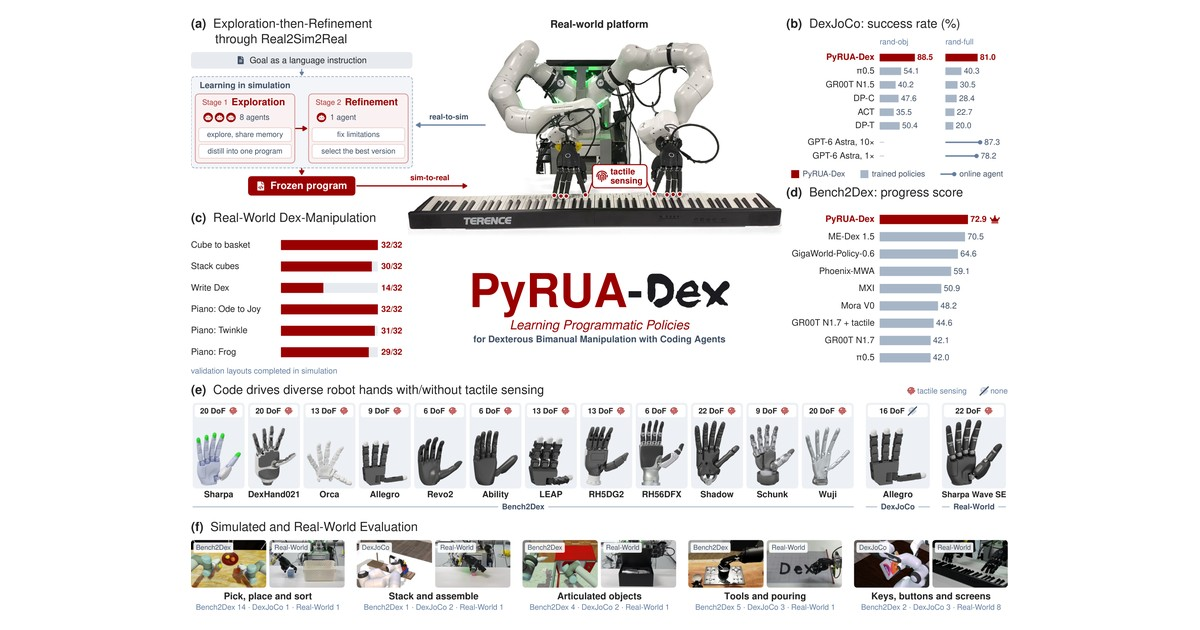
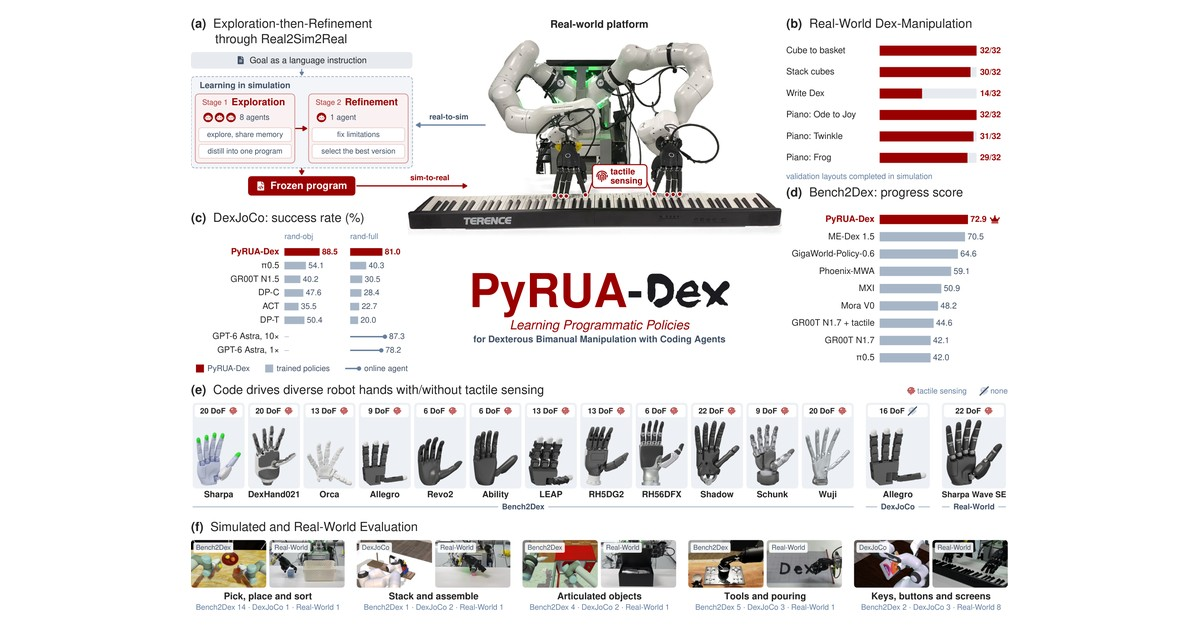
PyRUA-Dex page: follow the paper's revision of 2026-11-25
- the objective is the success rate under a development budget (the paper's equation no longer
  carries the no-language-model constraint, which the program's definition already states)
- Shared memory: its three parts (event log, curated notes, code folder), as the paper now describes it
- a card on tactile feedback in the program and in its development (the paper's new paragraph)
- Figure 4's caption says what refinement improves and through what, panel by panel
- social preview from the paper's Figure 1, whose two charts traded places: (b) real world, (c) DexJoCo

Changed region(s): [[0.6475, 0.0302, 0.8325, 0.3016], [0.1542, 0.3317, 0.3392, 0.6032]]

diff --git a/PyRUA-Dex/index.html b/PyRUA-Dex/index.html
@@ -253,7 +253,7 @@
         <ul class="steps">
           <li><svg class="ic"><use href="#i-users"/></svg><span><b>Eight agents in parallel.</b> Each receives the task library, a training layout of its own and one of the stages not yet solved.</span></li>
           <li><svg class="ic"><use href="#i-restore"/></svg><span><b>Exploration with state resets.</b> An agent checkpoints the simulator's state during an episode and resets to a checkpoint, eight times per layout: it retries one stage many times without repeating the stages before it, and queries the stage count after each attempt.</span></li>
-          <li><svg class="ic"><use href="#i-notes"/></svg><span><b>Shared memory.</b> Every attempt an agent finishes is written to a memory shared by all agents of the task, with the stages it reached and the code that reached them; a dedicated agent curates the memory.</span></li>
+          <li><svg class="ic"><use href="#i-notes"/></svg><span><b>Shared memory.</b> One memory per task in three parts: an event log written automatically, notes kept by a dedicated curating agent (for each stage: the method that reached it, what failed and what is still untried) and a code folder with each function that reached a stage. Every agent receives what is new in its next tool reply.</span></li>
           <li><svg class="ic"><use href="#i-snow"/></svg><span><b>Program evaluation.</b> Each agent writes a program that reproduces what it achieved; it is evaluated without the agent on eight fresh training layouts.</span></li>
           <li><svg class="ic"><use href="#i-book"/></svg><span><b>Distillation.</b> A distilling agent writes the task library from the evaluation records and selects the task's program.</span></li>
         </ul>
@@ -274,7 +274,7 @@
     </div>
 
     <h3 class="h3 rv"><svg class="ic"><use href="#i-chain"/></svg>A task is a chain of stages</h3>
-    <p class="h3-lead rv">Learning a task is a search over programs <i>π</i>: maximize the success rate SR(<i>π</i>) on the benchmark's test layouts, subject to no language-model call at test time and a budget of simulated layouts for development.</p>
+    <p class="h3-lead rv">Learning a task is a search over programs <i>π</i>: maximize the success rate SR(<i>π</i>) on the benchmark's test layouts, subject to a budget of simulated layouts for development.</p>
     <div class="chain-grid">
       <div class="card rv">
         <span class="k-label">Success factorizes along the chain</span>
@@ -377,6 +377,7 @@
       <div class="cb rv"><div class="badge"><svg class="ic"><use href="#i-route"/></svg></div><h4>Arms: plan whole, then move</h4><p>Arm calls put a frame of the hand at a point, with an approach direction and via points, and solve every pose before anything moves; a call says why a motion cannot run: unreachable, below the measured table, or in need of an arm reconfiguration. All motions run at the joints' speed limits.</p><div class="chips"><span class="chip">move_to</span><span class="chip">arc</span><span class="chip">together</span></div></div>
       <div class="cb rv"><div class="badge"><svg class="ic"><use href="#i-eye"/></svg></div><h4>Perception</h4><p>SAM 3 masks for a ladder of prompts, combined across the calibrated fixed cameras into position, footprint, height and yaw; wrist cameras measure again from close by.</p><div class="chips"><span class="chip">segment</span><span class="chip">locate</span><span class="chip">relocate</span><span class="chip">look</span><span class="chip">probe</span></div></div>
       <div class="cb rv"><div class="badge"><svg class="ic"><use href="#i-pulse"/></svg></div><h4>Touch</h4><p>A program does not assume that a grasp held; it checks. Touch comes from the fingertip maps and from joint lag, the gap between a joint's command and its measured position, read against each robot's measured drive response. Every call returns an outcome with its reason, data and steps, so a program checks each step and retries, adjusts or moves on.</p><div class="chips"><span class="chip">holding</span><span class="chip">feel</span><span class="chip">Outcome(ok, reason, data, steps)</span></div></div>
+      <div class="cb cb-wide rv"><div class="badge"><svg class="ic"><use href="#i-pulse"/></svg></div><div><h4>Tactile feedback, in the program and in its development</h4><p>Touch tells a program what vision cannot: whether a finger has met an object and whether a grasp holds. In the program, contact ends motions and verifies their result: a closing finger stops where it meets the object, a hand approaches a surface until it is felt, and after a grasp or a lift the program asks whether the object is held, has slipped or was never grasped. During exploration, an agent reads after any motion what each fingertip pad feels, so it learns why an attempt failed; during refinement, the outcomes that stage functions return on failed layouts show whether to repair the approach, the grasp or the transport.</p></div><div class="chips"><span class="chip">touch</span><span class="chip">close</span></div></div>
       <div class="cb cb-wide rv"><div class="badge"><svg class="ic"><use href="#i-film"/></svg></div><div><h4>From an episode to a program</h4><p>When an explored layout that reached a stage is closed, the harness compiles the path the agent kept into a recipe, the palm's waypoints relative to the located objects split at every grasp and release, and a draft program in the staged form. The agent turns the draft into a program by closing the loop: measuring again before contact, checking that a hand holds, and stating how each stage function fails.</p></div><div class="chips"><span class="chip">play</span><span class="chip">take</span></div></div>
     </div>
   </div>
@@ -629,8 +630,8 @@
       <div class="nbox rv"><b class="nw sm">43.6% → 61.7%</b><span>validation layouts completed, against test success <span class="nw">44.6% → 60.6%</span>: the gain carries over to layouts no agent has seen</span></div>
     </div>
     <figure class="fig rv">
-      <a class="zoom" href="static/images/paper/fig-stage2.webp?v=20261125"><img src="static/images/paper/fig-stage2.webp?v=20261125" alt="Why refinement works: how the programs after exploration failed, held-out completions of the versions evaluated during refinement, and task 12 stage by stage" width="1959" height="645" loading="lazy"></a>
-      <figcaption><b>Why refinement works.</b> (a) How the 341 failed validation runs of the programs after exploration ended, on the 22 tasks that exploration completed at least once (a run can count in two classes). (b) Held-out completions (of 32) of the versions evaluated during refinement; version 0 is the program after exploration, and the large dot is the version that was selected. (c) Task 12: held-out layouts that reached each stage, after exploration and after refinement.</figcaption>
+      <a class="zoom" href="static/images/paper/fig-stage2.webp?v=20261125"><img src="static/images/paper/fig-stage2.webp?v=20261125" alt="Refinement improves the success rate by repairing the stage at which an explored program fails: how the programs after exploration failed, held-out completions of the versions evaluated during refinement, and task 12 stage by stage" width="1959" height="645" loading="lazy"></a>
+      <figcaption><b>Refinement improves the success rate by repairing the stage at which an explored program fails.</b> (a) Explored programs fail in a way that can be repaired: most failed validation runs return with step budget unused, most stop at a single stage, and few run out of steps (341 runs on the 22 tasks that exploration completed at least once; a run can count in two classes). (b) The repairs hold on unseen layouts, and selection guards against regressions: held-out completions (of 32) mostly rise over the versions evaluated during refinement, and the version with the best held-out record is kept (large dot; version 0 and dotted line: after exploration). (c) The gain comes from the bottleneck: on task 12 the first two stages were reliable after exploration, and repairing the hammer strike opens the last stage.</figcaption>
     </figure>
 
     <h3 class="h3 rv"><svg class="ic"><use href="#i-bolt"/></svg>Frozen programs outperform the same model acting online</h3>
